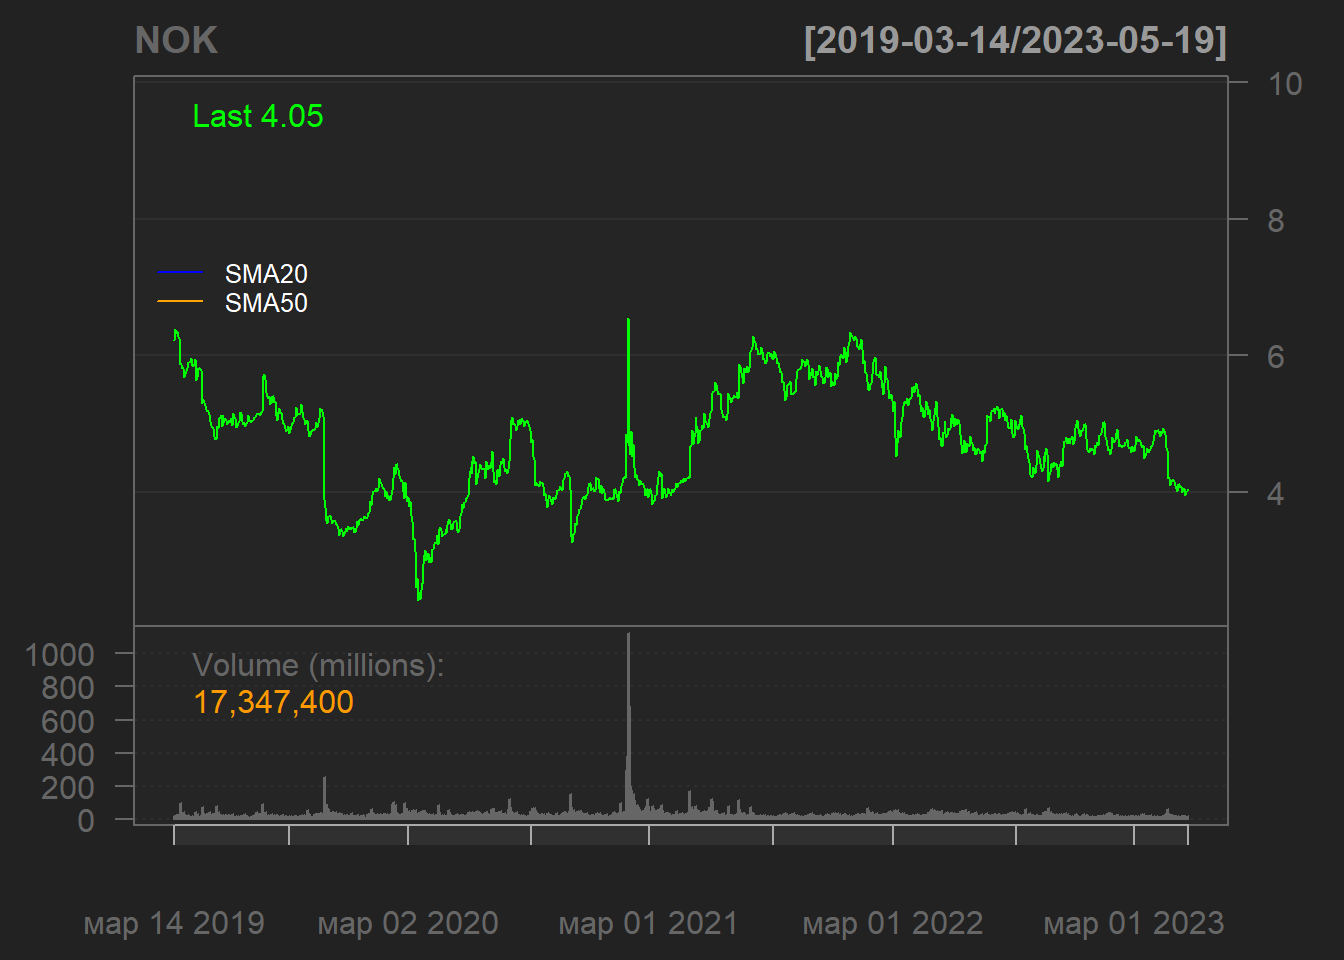
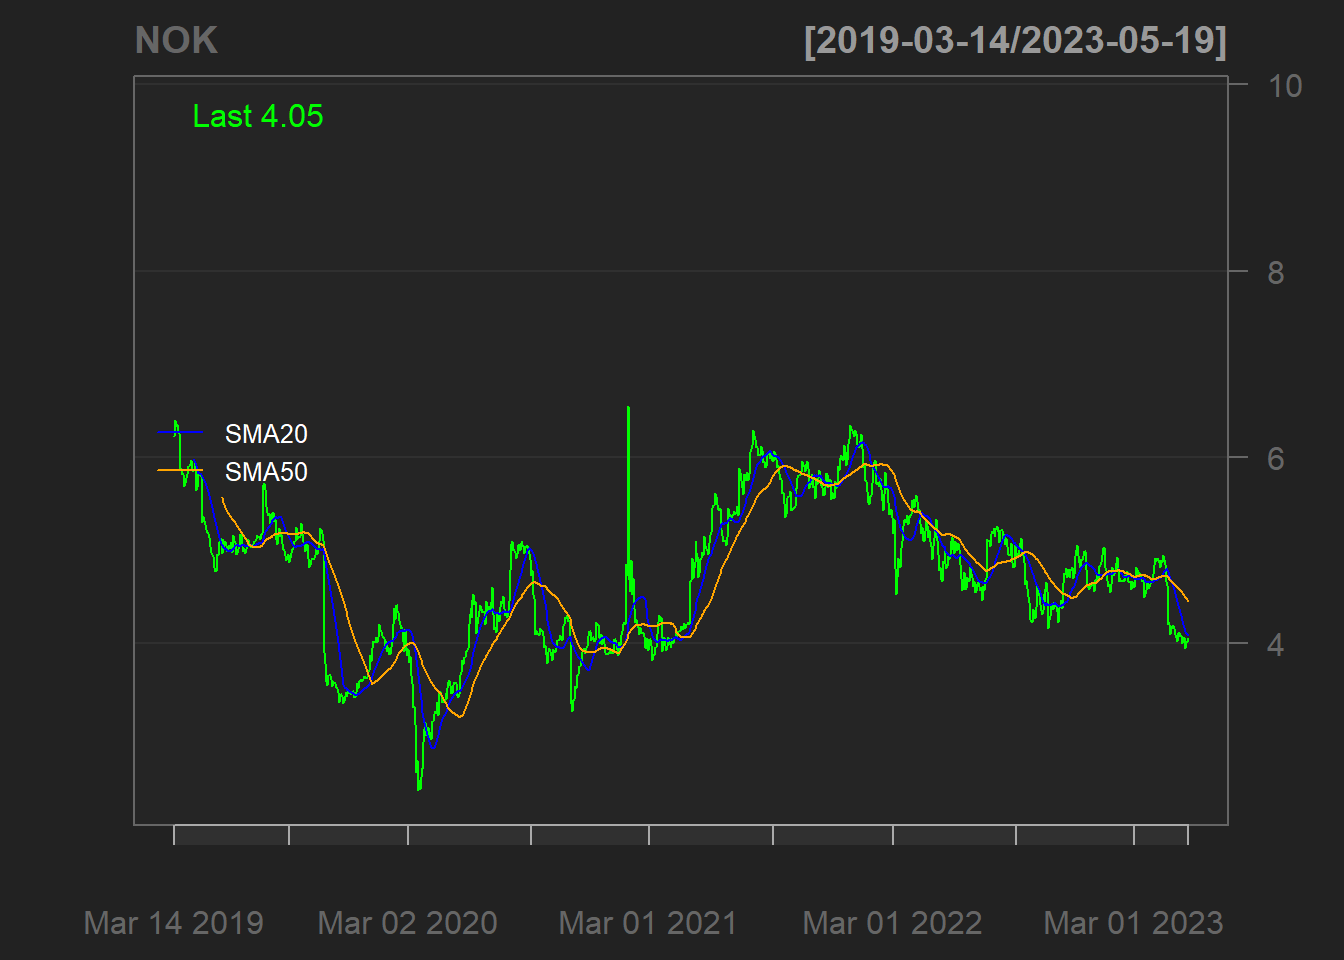
fix SMA plot

diff --git a/docs/results.html b/docs/results.html
@@ -2,7 +2,7 @@
 <html xmlns="http://www.w3.org/1999/xhtml" lang="en" xml:lang="en"><head>
 
 <meta charset="utf-8">
-<meta name="generator" content="quarto-1.2.335">
+<meta name="generator" content="quarto-1.2.313">
 
 <meta name="viewport" content="width=device-width, initial-scale=1.0, user-scalable=yes">
 
@@ -250,14 +250,13 @@ code span.wa { color: #60a0b0; font-weight: bold; font-style: italic; } /* Warni
 <span id="cb6-2"><a href="#cb6-2" aria-hidden="true" tabindex="-1"></a>    STOCKS[[st]]<span class="sc">$</span>sma20 <span class="ot">=</span> <span class="fu">SMA</span>(STOCKS[[st]][, <span class="dv">4</span>], <span class="at">n =</span> <span class="dv">20</span>)</span>
 <span id="cb6-3"><a href="#cb6-3" aria-hidden="true" tabindex="-1"></a>    STOCKS[[st]]<span class="sc">$</span>sma50 <span class="ot">=</span> <span class="fu">SMA</span>(STOCKS[[st]][, <span class="dv">4</span>], <span class="at">n =</span> <span class="dv">50</span>)</span>
 <span id="cb6-4"><a href="#cb6-4" aria-hidden="true" tabindex="-1"></a>    <span class="fu">lineChart</span>(STOCKS[[st]], </span>
-<span id="cb6-5"><a href="#cb6-5" aria-hidden="true" tabindex="-1"></a>              <span class="at">name =</span> tickers[st],</span>
-<span id="cb6-6"><a href="#cb6-6" aria-hidden="true" tabindex="-1"></a>              <span class="at">theme =</span> <span class="fu">chartTheme</span>(<span class="st">'black'</span>))</span>
-<span id="cb6-7"><a href="#cb6-7" aria-hidden="true" tabindex="-1"></a>    <span class="fu">addSMA</span>(<span class="at">n =</span> <span class="dv">20</span>, <span class="at">col =</span> <span class="st">'blue'</span>)</span>
-<span id="cb6-8"><a href="#cb6-8" aria-hidden="true" tabindex="-1"></a>    <span class="fu">addSMA</span>(<span class="at">n =</span> <span class="dv">50</span>, <span class="at">col =</span> <span class="st">'orange'</span>)</span>
-<span id="cb6-9"><a href="#cb6-9" aria-hidden="true" tabindex="-1"></a>    <span class="fu">legend</span>(<span class="st">'left'</span>, <span class="at">col =</span> <span class="fu">c</span>(<span class="st">'blue'</span>,<span class="st">'orange'</span>),</span>
-<span id="cb6-10"><a href="#cb6-10" aria-hidden="true" tabindex="-1"></a>           <span class="at">legend =</span> <span class="fu">c</span>(<span class="st">'SMA20'</span>,<span class="st">'SMA50'</span>), <span class="at">lty =</span> <span class="dv">1</span>, <span class="at">bty =</span> <span class="st">'n'</span>,</span>
-<span id="cb6-11"><a href="#cb6-11" aria-hidden="true" tabindex="-1"></a>           <span class="at">text.col =</span> <span class="st">'white'</span>, <span class="at">cex =</span> <span class="fl">0.8</span>)</span>
-<span id="cb6-12"><a href="#cb6-12" aria-hidden="true" tabindex="-1"></a>}</span></code><button title="Copy to Clipboard" class="code-copy-button"><i class="bi"></i></button></pre></div>
+<span id="cb6-5"><a href="#cb6-5" aria-hidden="true" tabindex="-1"></a>                <span class="at">name =</span> tickers[st],</span>
+<span id="cb6-6"><a href="#cb6-6" aria-hidden="true" tabindex="-1"></a>                <span class="at">TA =</span> <span class="st">"addSMA(20, col = 'blue'); addSMA(50, col = 'orange')"</span>,</span>
+<span id="cb6-7"><a href="#cb6-7" aria-hidden="true" tabindex="-1"></a>                <span class="at">theme =</span> <span class="fu">chartTheme</span>(<span class="st">'black'</span>))</span>
+<span id="cb6-8"><a href="#cb6-8" aria-hidden="true" tabindex="-1"></a>    <span class="fu">legend</span>(<span class="st">'left'</span>, <span class="at">col =</span> <span class="fu">c</span>(<span class="st">'blue'</span>,<span class="st">'orange'</span>),</span>
+<span id="cb6-9"><a href="#cb6-9" aria-hidden="true" tabindex="-1"></a>           <span class="at">legend =</span> <span class="fu">c</span>(<span class="st">'SMA20'</span>,<span class="st">'SMA50'</span>), <span class="at">lty =</span> <span class="dv">1</span>, <span class="at">bty =</span> <span class="st">'n'</span>,</span>
+<span id="cb6-10"><a href="#cb6-10" aria-hidden="true" tabindex="-1"></a>           <span class="at">text.col =</span> <span class="st">'white'</span>, <span class="at">cex =</span> <span class="fl">0.8</span>)</span>
+<span id="cb6-11"><a href="#cb6-11" aria-hidden="true" tabindex="-1"></a>}</span></code><button title="Copy to Clipboard" class="code-copy-button"><i class="bi"></i></button></pre></div>
 <div class="cell-output-display">
 <p><img src="results_files/figure-html/unnamed-chunk-6-1.png" class="img-fluid" width="672"></p>
 </div>

diff --git a/docs/description.html b/docs/description.html
@@ -2,7 +2,7 @@
 <html xmlns="http://www.w3.org/1999/xhtml" lang="en" xml:lang="en"><head>
 
 <meta charset="utf-8">
-<meta name="generator" content="quarto-1.2.335">
+<meta name="generator" content="quarto-1.2.313">
 
 <meta name="viewport" content="width=device-width, initial-scale=1.0, user-scalable=yes">
 

diff --git a/docs/index.html b/docs/index.html
@@ -2,7 +2,7 @@
 <html xmlns="http://www.w3.org/1999/xhtml" lang="en" xml:lang="en"><head>
 
 <meta charset="utf-8">
-<meta name="generator" content="quarto-1.2.335">
+<meta name="generator" content="quarto-1.2.313">
 
 <meta name="viewport" content="width=device-width, initial-scale=1.0, user-scalable=yes">
 

diff --git a/docs/stocks0.html b/docs/stocks0.html
@@ -2,7 +2,7 @@
 <html xmlns="http://www.w3.org/1999/xhtml" lang="en" xml:lang="en"><head>
 
 <meta charset="utf-8">
-<meta name="generator" content="quarto-1.2.335">
+<meta name="generator" content="quarto-1.2.313">
 
 <meta name="viewport" content="width=device-width, initial-scale=1.0, user-scalable=yes">
 
